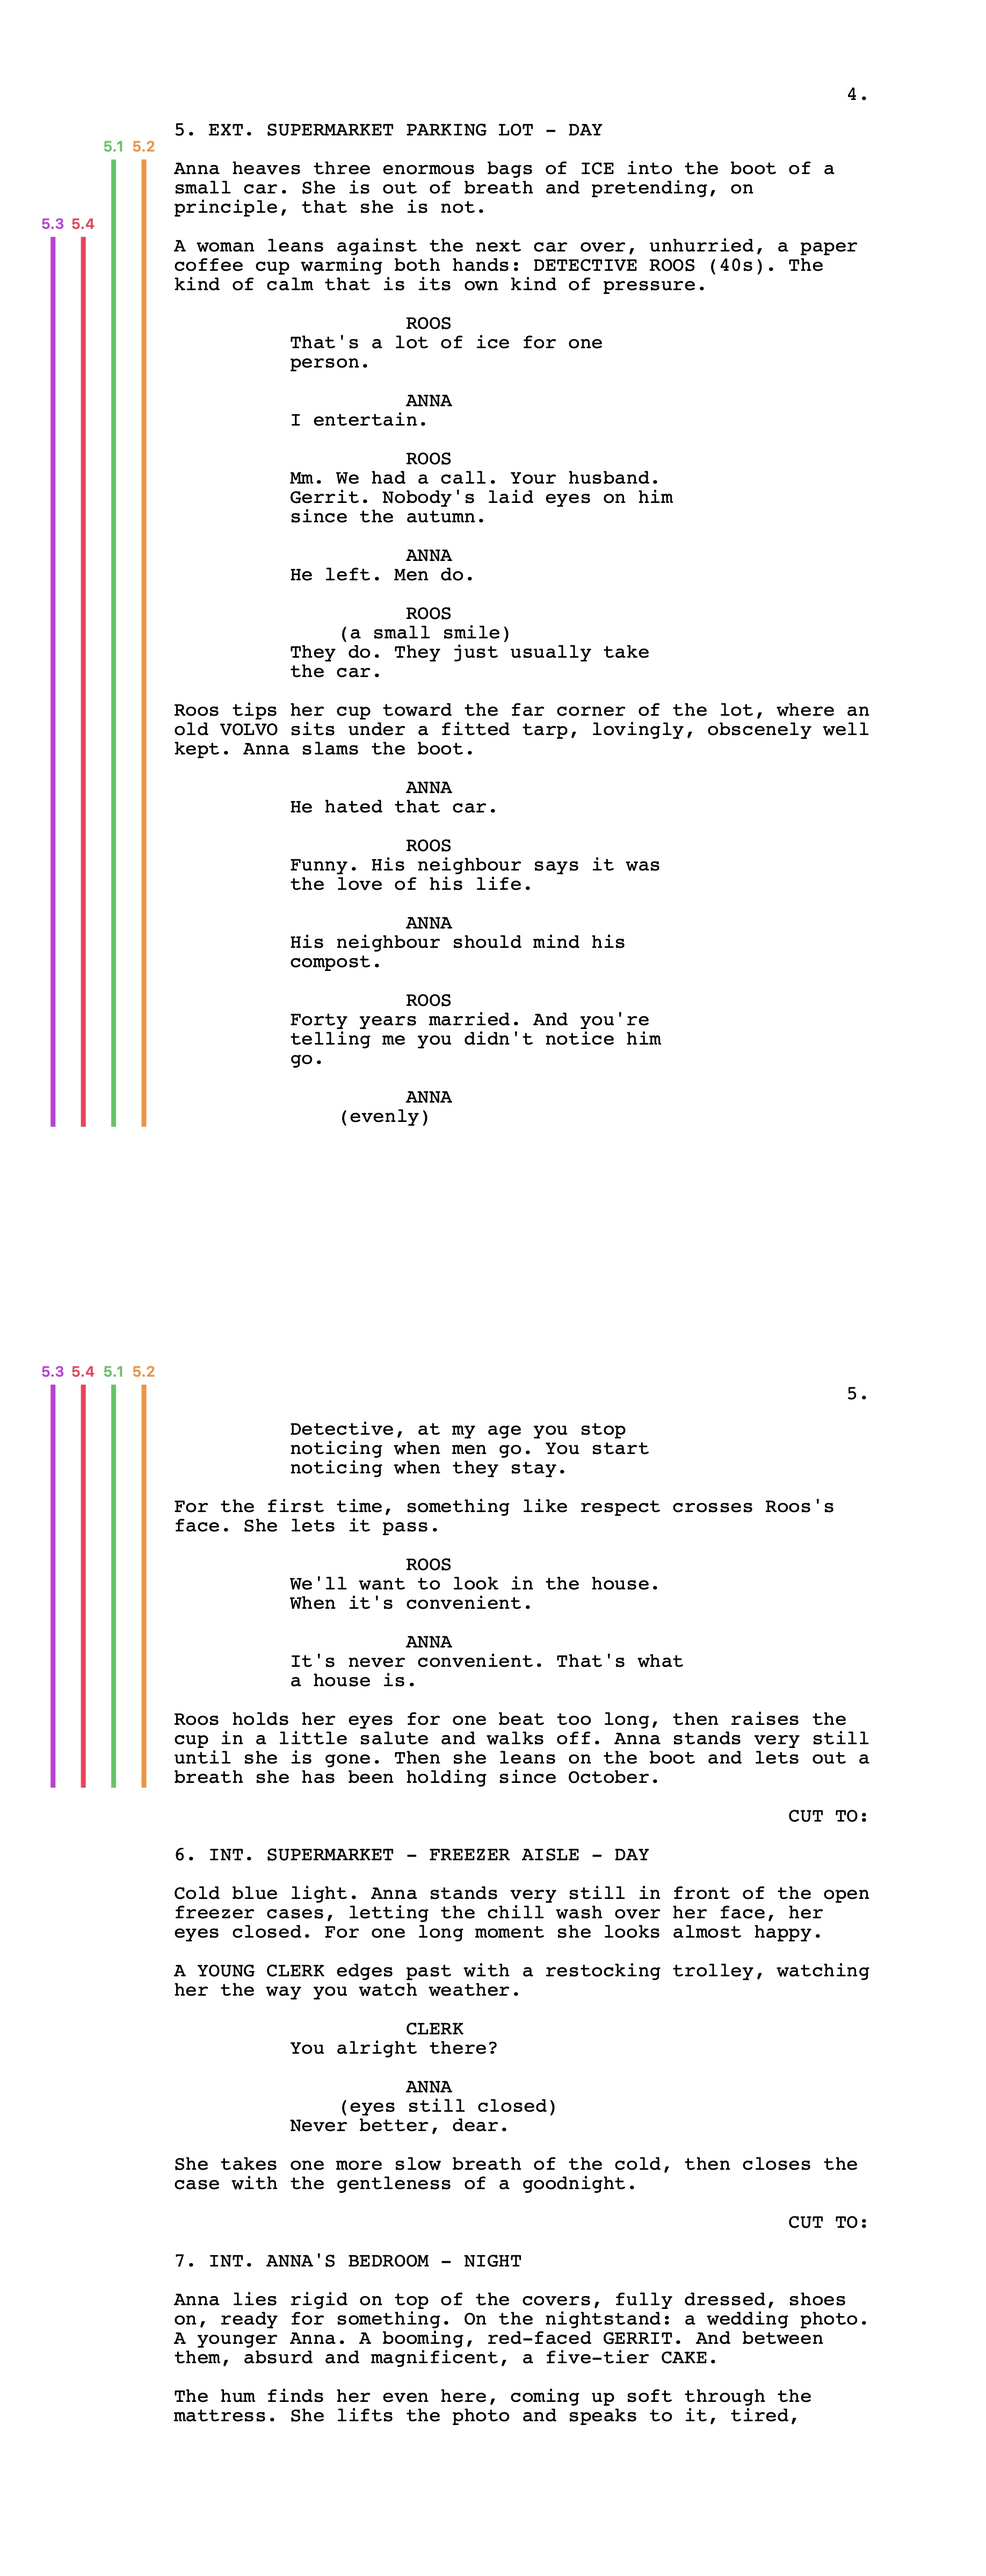
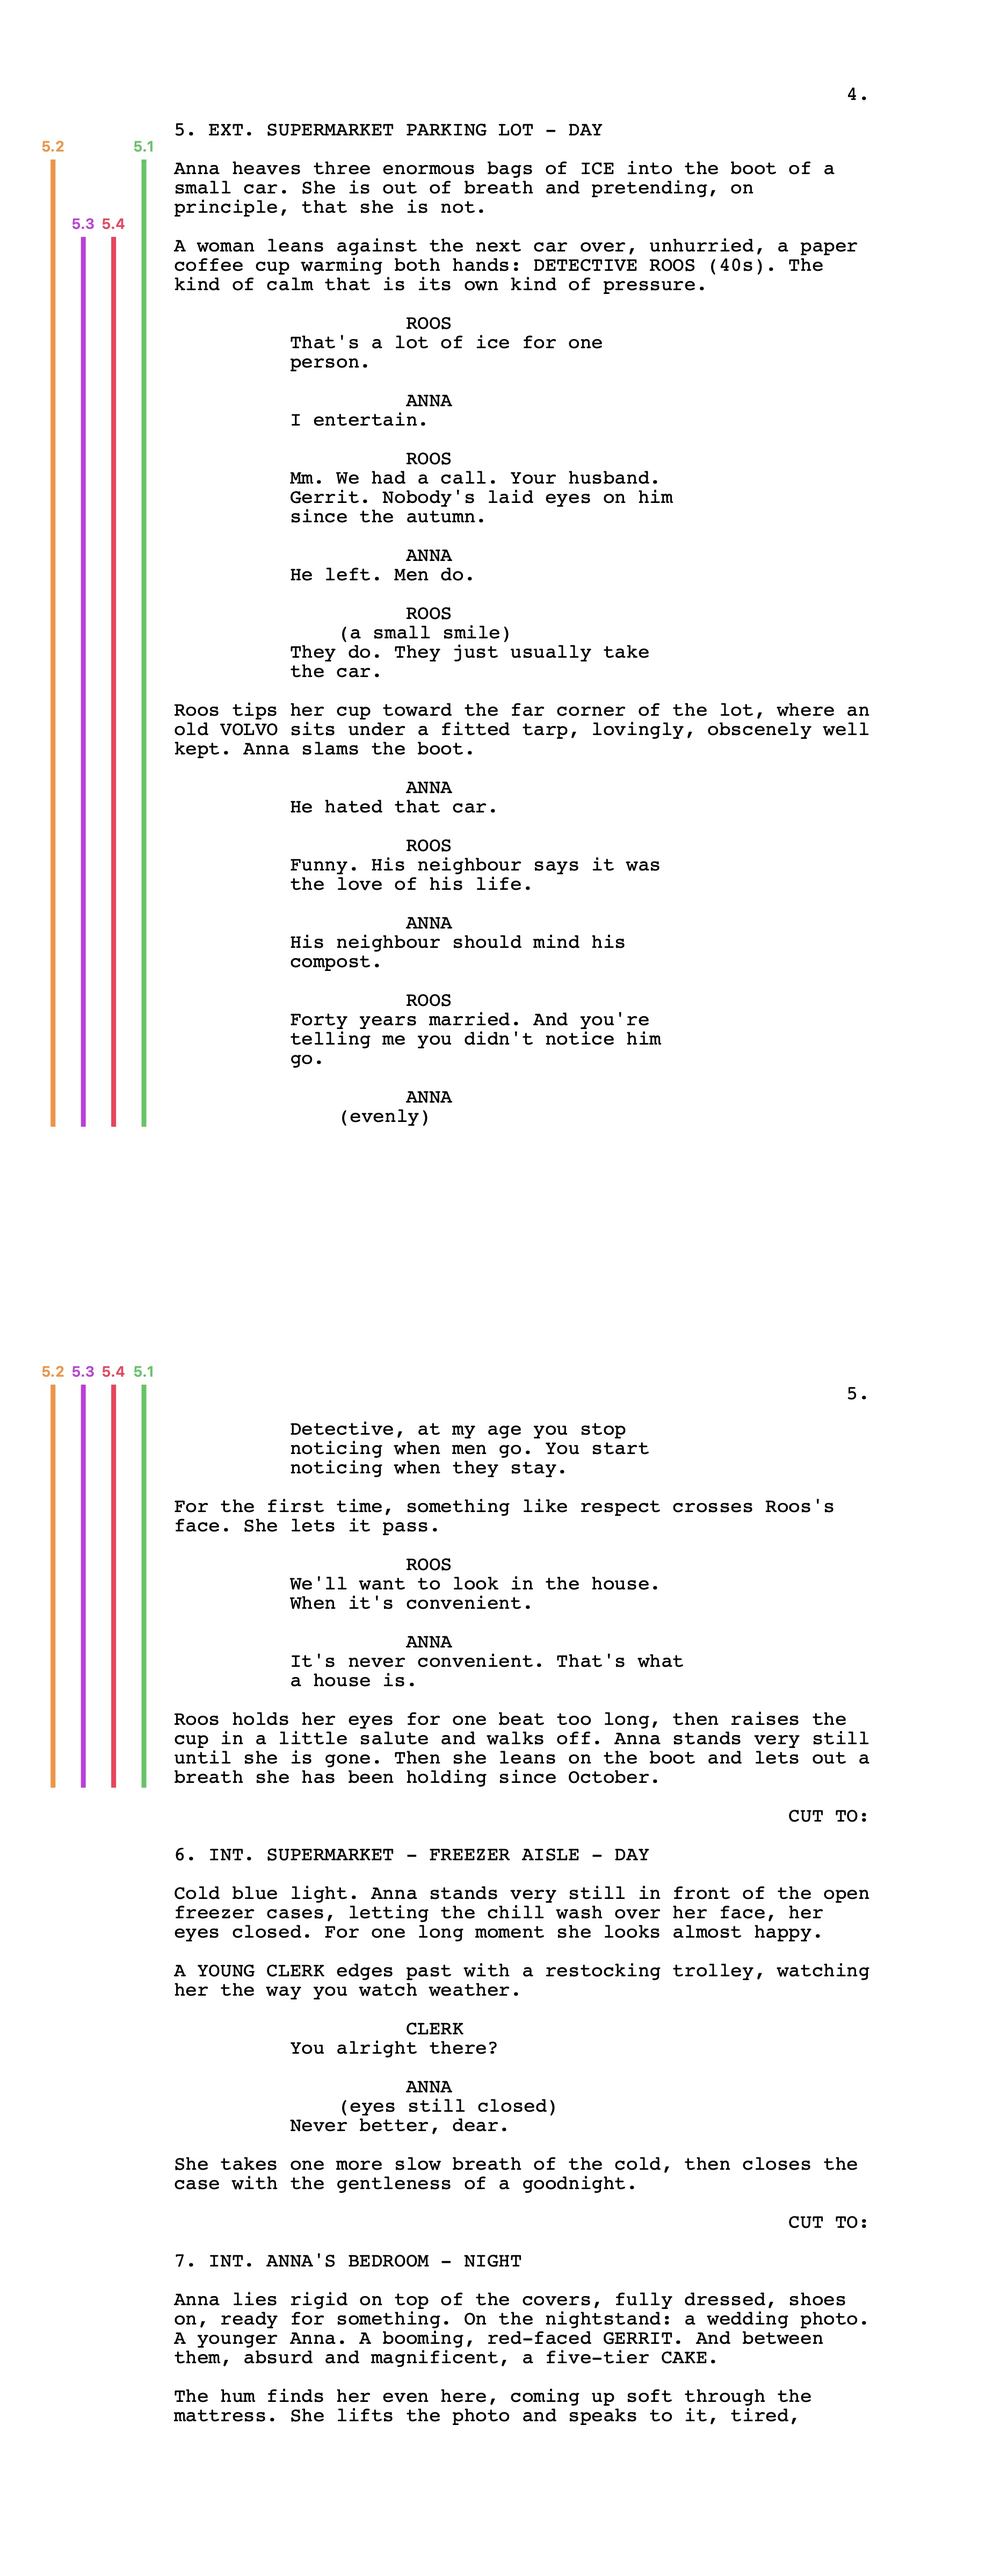
Publish shot list from CinePlanner

Changed region(s): [[0.031, 0.0622, 0.1552, 0.4351], [0.031, 0.5284, 0.1552, 0.6838]]

diff --git a/index.html b/index.html
@@ -418,6 +418,7 @@
           .map-0-2 { background-image: url(media/map_0_2.jpg); aspect-ratio: 1200 / 1200; }
           .cov-0-3 { background-image: url(media/cov_0_3.jpg); aspect-ratio: 1836 / 4794; }
           .cov-0-4 { background-image: url(media/cov_0_4.jpg); aspect-ratio: 1836 / 4794; }
+          .map-0-4 { background-image: url(media/map_0_4.jpg); aspect-ratio: 1200 / 1200; }
           .cov-0-5 { background-image: url(media/cov_0_5.jpg); aspect-ratio: 1836 / 4794; }
           .cov-0-6 { background-image: url(media/cov_0_6.jpg); aspect-ratio: 1836 / 4794; }
           .cov-0-7 { background-image: url(media/cov_0_7.jpg); aspect-ratio: 1836 / 7212; }
@@ -1176,6 +1177,7 @@ memory you cannot outrun. size ms type single + low angle focal length 35mm grip
     <span class="scene-loc">SUPERMARKET PARKING LOT</span>
     <span class="scene-media">
       <details class="mi mi-doc"><summary onclick="event.stopPropagation()" title="Script with coverage for this scene"><span class="cover-thumb cov-0-4"></span><span class="thumb-label">Coverage</span></summary></details>
+      <details class="mi mi-doc"><summary onclick="event.stopPropagation()" title="Scene map"><span class="cover-thumb is-map map-0-4"></span><span class="thumb-label">Scene map</span></summary></details>
     </span>
   </summary>
   <div class="shots">
@@ -2579,7 +2581,7 @@ she hangs up. she leans over and blows out the lamp. size ws focal length 20mm g
 
 <button class="totop" id="totop" type="button" aria-label="Back to top" hidden>↑</button>
 
-<script>var CP_EPISODES = [[{"sunrise":"","sunset":"","date":"Monday, 4 January 2027","notes":"","iso":"2027-01-04","n":1,"shots":11,"goldenAM":"","setups":3,"entries":[{"s":0,"shots":["1.1","1.3","1.4","1.2"],"all":true,"note":""},{"s":3,"note":"","all":true,"shots":["4.2","4.1"]},{"s":9,"all":true,"note":"","shots":["10.4","10.1","10.5","10.2","10.3"]}],"goldenPM":""},{"iso":"2027-01-05","notes":"During Supermarket Scenes, Pre-Light for cellar","date":"Tuesday, 5 January 2027","n":2,"goldenAM":"","entries":[{"s":4,"all":true,"note":"","shots":["5.4","5.2","5.3","5.1"]},{"shots":["6.1","6.2"],"all":true,"note":"","s":5},{"shots":["2.1"],"s":1,"all":true,"note":""},{"shots":["8.2","8.4","8.5","8.3","8.1"],"s":7,"note":"","all":true}],"sunrise":"","goldenPM":"","sunset":"","setups":4,"shots":12},{"sunset":"17:11","sunrise":"7:49","goldenAM":"7:49–8:32","notes":"During Ext scenes, Pre-Light for Bedroom","iso":"2027-01-06","date":"Wednesday, 6 January 2027","setups":3,"goldenPM":"16:27–17:11","entries":[{"shots":["3.4","3.3","3.1","3.2"],"s":2,"note":"","all":true},{"note":"","all":true,"s":8,"shots":["9.1","9.2","9.3"]},{"note":"","all":true,"s":6,"shots":["7.2","7.1","7.3"]}],"n":3,"shots":10}]].map(function (s) { return { schedule: s }; });</script>
+<script>var CP_EPISODES = [[{"goldenPM":"","goldenAM":"","setups":3,"iso":"2027-01-04","entries":[{"note":"","shots":["1.2","1.1","1.3","1.4"],"s":0,"all":true},{"s":3,"all":true,"note":"","shots":["4.2","4.1"]},{"s":9,"all":true,"note":"","shots":["10.1","10.3","10.2","10.4","10.5"]}],"sunset":"","date":"Monday, 4 January 2027","notes":"","shots":11,"sunrise":"","n":1},{"setups":4,"iso":"2027-01-05","sunrise":"7:00","sunset":"16:59","notes":"During Supermarket Scenes, Pre-Light for cellar","goldenAM":"7:00–7:38","shots":12,"date":"Tuesday, 5 January 2027","entries":[{"s":4,"note":"","shots":["5.4","5.3","5.2","5.1"],"all":true},{"s":5,"all":true,"shots":["6.1","6.2"],"note":""},{"s":1,"all":true,"shots":["2.1"],"note":""},{"s":7,"all":true,"note":"","shots":["8.4","8.1","8.2","8.3","8.5"]}],"n":2,"goldenPM":"16:21–16:59"},{"setups":3,"goldenPM":"16:27–17:11","n":3,"sunrise":"7:49","shots":10,"sunset":"17:11","goldenAM":"7:49–8:32","iso":"2027-01-06","entries":[{"shots":["3.2","3.3","3.4","3.1"],"s":2,"note":"","all":true},{"all":true,"s":8,"shots":["9.1","9.3","9.2"],"note":""},{"note":"","s":6,"all":true,"shots":["7.2","7.1","7.3"]}],"notes":"During Ext scenes, Pre-Light for Bedroom","date":"Wednesday, 6 January 2027"}]].map(function (s) { return { schedule: s }; });</script>
 <script>
 (function () {
   function qsa(sel, ctx) { return Array.prototype.slice.call((ctx || document).querySelectorAll(sel)); }
